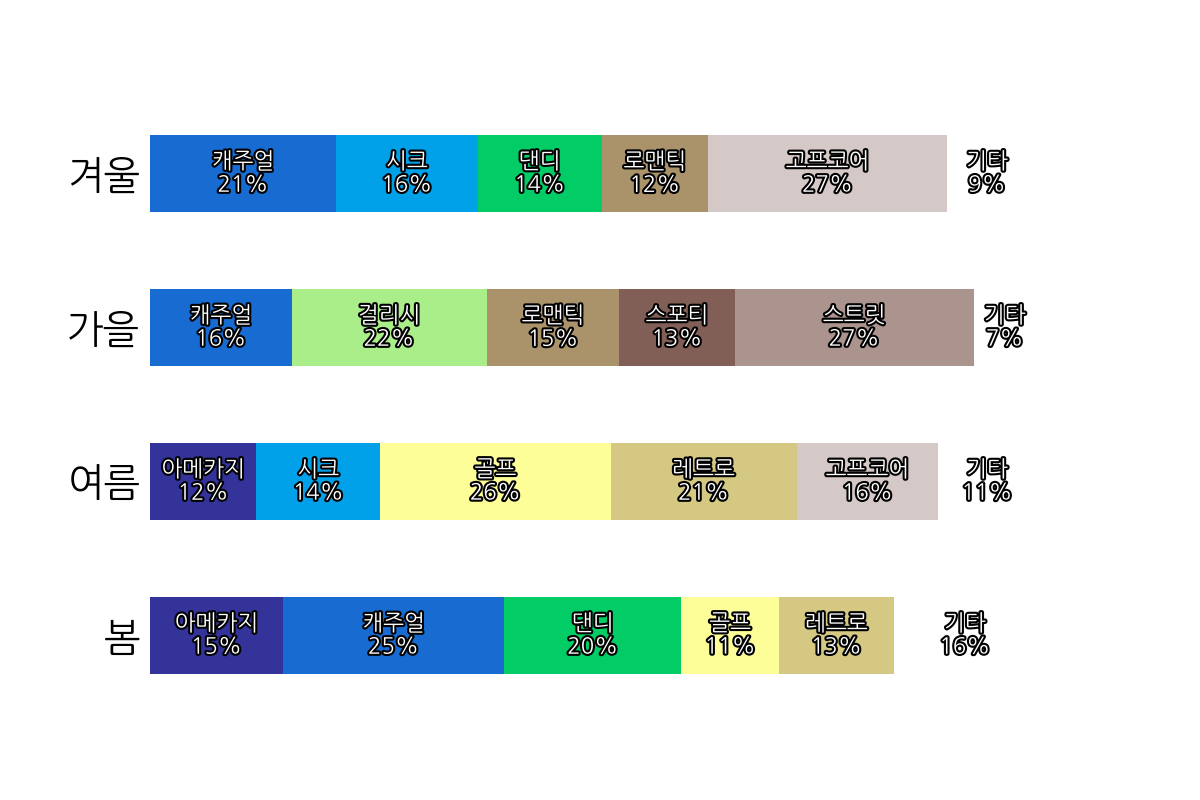
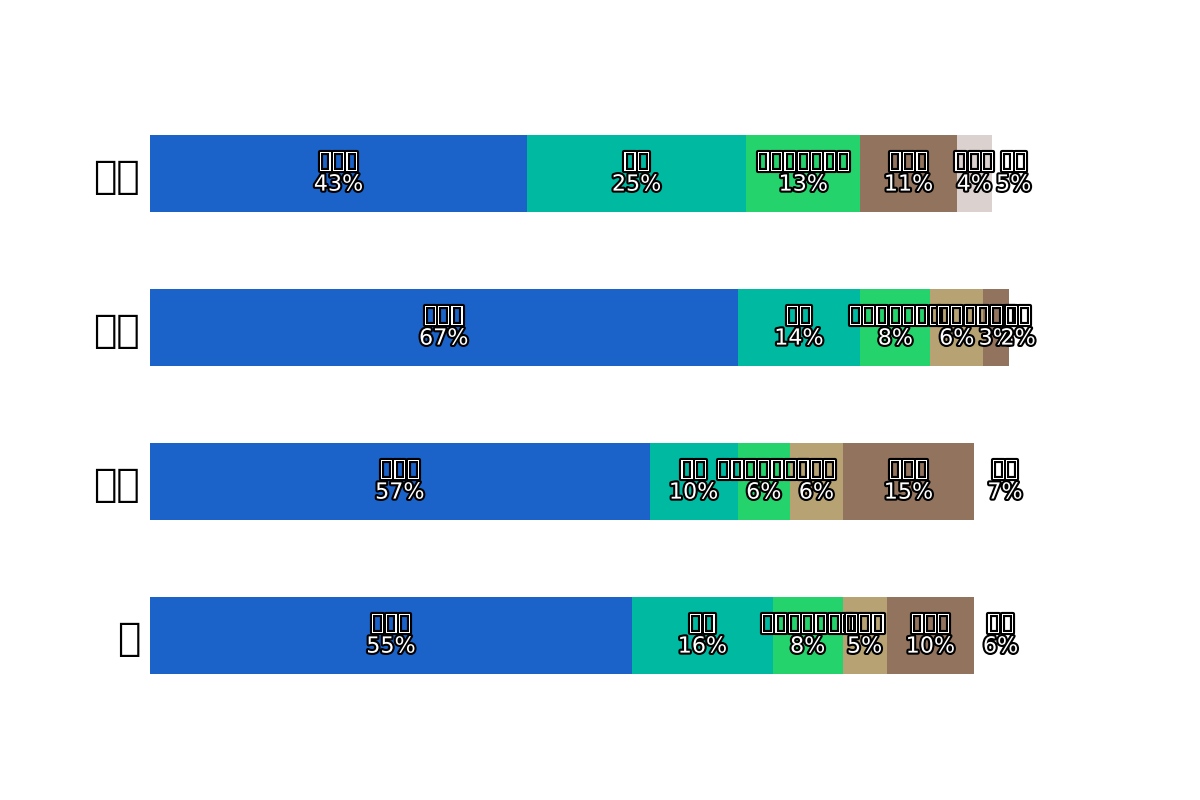
fix: some fixed

diff --git a/musinsa_trend/plot/plot.py b/musinsa_trend/plot/plot.py
@@ -3,7 +3,7 @@ import matplotlib.patheffects as path_effects
 from matplotlib import font_manager
 from pathlib import Path
 import pandas as pd
-from .utils import Utils 
+from .utils import Utils
 
 class Plot() :
     # Constants for managing files
@@ -11,10 +11,10 @@ class Plot() :
     FILE_NAME_PIE = 'image02.png'
     FILE_NAME_STACKED_BAR = 'image03.png'
     SAVE_DESTINATION = str(Path.cwd()) + '/plot/static/media/'
-
-    def font_setting(plt) :
+    # font_manager._rebuild()
+    def font_setting(self, plt):
         # font setting for 한글
-        font_path = str(Path.cwd()) + '/plot/static/resources/NanumGothic.ttf'
+        font_path = 'C:\\Windows\\Fonts\\malgunsl.ttf'
         custom_font = font_manager.FontProperties(fname=font_path)
         plt.rcParams['font.family'] = custom_font.get_name()
 
@@ -47,10 +47,11 @@ class Plot() :
         plt.grid(True)
         
         #font
-        font_setting(plt)
+        self.font_setting(plt)
 
         #save it
         self.save_figure(plt,self.FILE_NAME_LINE)
+        plt.close()
         return True
 
     def pie(self,data) :
@@ -58,13 +59,14 @@ class Plot() :
         fig, ax = plt.subplots()
         ax.pie(totals, labels=brands)
         #font
-        font_setting(plt)
+        self.font_setting(plt)
         self.save_figure(fig, self.FILE_NAME_PIE)
+        plt.close()
         return True
 
     def stacked_bar(self,data) :
         # make it dataframe
-        df = pd.DataFrame(data[0],index = data[1])
+        df = pd.DataFrame(data[0], index = data[1])
         # get style category names
         style_names = list(Utils.ALL_CATEGORIES)
         style_names.append('기타')
@@ -95,7 +97,8 @@ class Plot() :
             # create labels
             ax.bar_label(c, labels=labels, label_type='center', fontsize=16,color='w', path_effects=[path_effects.withStroke(linewidth=3, foreground='k')])
         #font
-        font_setting(plt)
+        self.font_setting(plt)
         # save it
         self.save_figure(ax.get_figure(),self.FILE_NAME_STACKED_BAR)
+        plt.close()
         return True

diff --git a/musinsa_trend/outfits/views.py b/musinsa_trend/outfits/views.py
@@ -4,6 +4,13 @@ from rest_framework.decorators import api_view
 from rest_framework.response import Response
 from plot.plot import Plot
 from plot.utils import Utils
+from django.db.models import Count
+from .models import Style, StyleGoods, Goods
+import logging
+from logger import setLogOptions
+
+setLogOptions()
+logger = logging.getLogger(__name__)
 
 # Create your views here.
 
@@ -40,6 +47,9 @@ def chart(request):
             filename_img = Plot.FILE_NAME_PIE
     elif chart_type == '3' : # 시즌 별 스타일 stacked bar chart
         raw_data = season_style_trend()
+        # print('-'*50)
+        # print(raw_data)
+        # print('-'*50)
         # Or you use sample data with alternative code below
         # raw_data = Utils.SAMPLE_STACKED_BAR
         data = utils.get_data_for_stacked_bar(raw_data)
@@ -56,17 +66,6 @@ def stylecat(request):
 def stylesea(request) :
     data = top_styles_by_season(request)
     return render(request, 'style_list.html', data)
-
-# Create your views here.
-from django.db.models import Count
-from .models import Style, StyleGoods, Goods
-from django.http import JsonResponse
-
-import logging
-from logger import setLogOptions
-
-setLogOptions()
-logger = logging.getLogger(__name__)
 
 def category_brand_count():
     """
@@ -95,8 +94,8 @@ def season_style_trend():
     나머지에 대해서는 합해서 반환
     """
     # request 없이 계절 모두 구현 되도록 변경 
-    seasons = ['Spring', 'Summer', 'Autumn', 'Winter']
-    response_data = {'Spring': {} , 'Summer' : {}, 'Autumn' : {}, 'Winter' : {}}
+    seasons = ['spring', 'summer', 'fall', 'winter']
+    response_data = {'spring': {} , 'summer' : {}, 'fall' : {}, 'winter' : {}}
 
     for season in seasons:
         top_categories = list(Style.objects.filter(

diff --git a/musinsa_trend/plot/utils.py b/musinsa_trend/plot/utils.py
@@ -51,12 +51,20 @@ class Utils:
         categories_count = {k : [0,0,0,0] for k in self.ALL_CATEGORIES}
         categories_count["기타"] = [0,0,0,0]
 
+        # for i, season in enumerate(raw_data.values()):
+        #     for top_cat in season["top_categories"] :
+        #         for x in top_cat.items() :
+        #             print('-'*80)
+        #             print(top_cat)
+        #             print('-'*80)
+        #             categories_count[x['category']][i] = x['count']
+        #     categories_count["기타"][i] = season["other_count"]
+        
         for i, season in enumerate(raw_data.values()):
             for top_cat in season["top_categories"] :
-                for x in top_cat :
-                    categories_count[x['category']][i] = x["count"]
-            categories_count["기타"][i] = season["other_count"]
-        
+                categories_count[top_cat["category"]][i] = top_cat["count"]
+                categories_count["기타"][i] = season["other_count"]
+
         return (categories_count, ['봄', '여름', '가을', '겨울'])
 
     # EXPECTED RAW DATA FROM season_style_trend()

diff --git a/musinsa_trend/outfits/models.py b/musinsa_trend/outfits/models.py
@@ -6,7 +6,7 @@ class Style(models.Model):
     category = models.CharField(max_length=64)
     views = models.IntegerField(default=0)
     season = models.CharField(max_length=16)
-    URL = models.TextField(null=True)
+    url = models.TextField(null=True)
     tag = models.TextField(null=True)
     created_at = models.DateTimeField(auto_now_add=True)
     deleted_at = models.DateTimeField(null=True)

diff --git a/musinsa_trend/musinsa_trend/settings.py b/musinsa_trend/musinsa_trend/settings.py
@@ -52,8 +52,10 @@ INSTALLED_APPS = [
     'django.contrib.sessions',
     'django.contrib.messages',
     'django.contrib.staticfiles',
+    'rest_framework',
     # app
     'outfits',
+    'plot',
 ]
 
 MIDDLEWARE = [
@@ -97,7 +99,7 @@ DATABASES = {
         'USER': 'postgres',
         'PASSWORD': '1234',
         'HOST': 'localhost',   
-        'PORT': '5432',
+        'PORT': '',
     }
 }
 

diff --git a/musinsa_trend/manage.py b/musinsa_trend/manage.py
@@ -3,7 +3,6 @@
 import os
 import sys
 
-
 def main():
     """Run administrative tasks."""
     os.environ.setdefault('DJANGO_SETTINGS_MODULE', 'musinsa_trend.settings')
